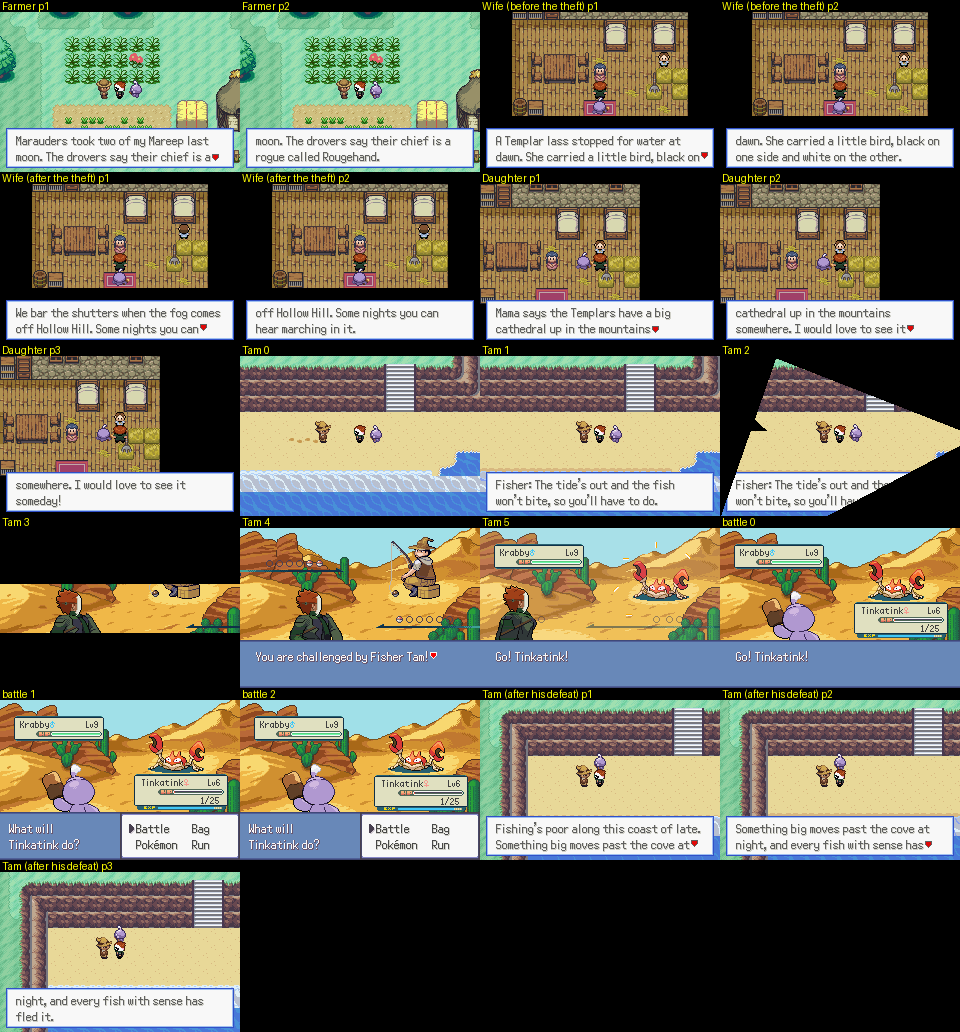
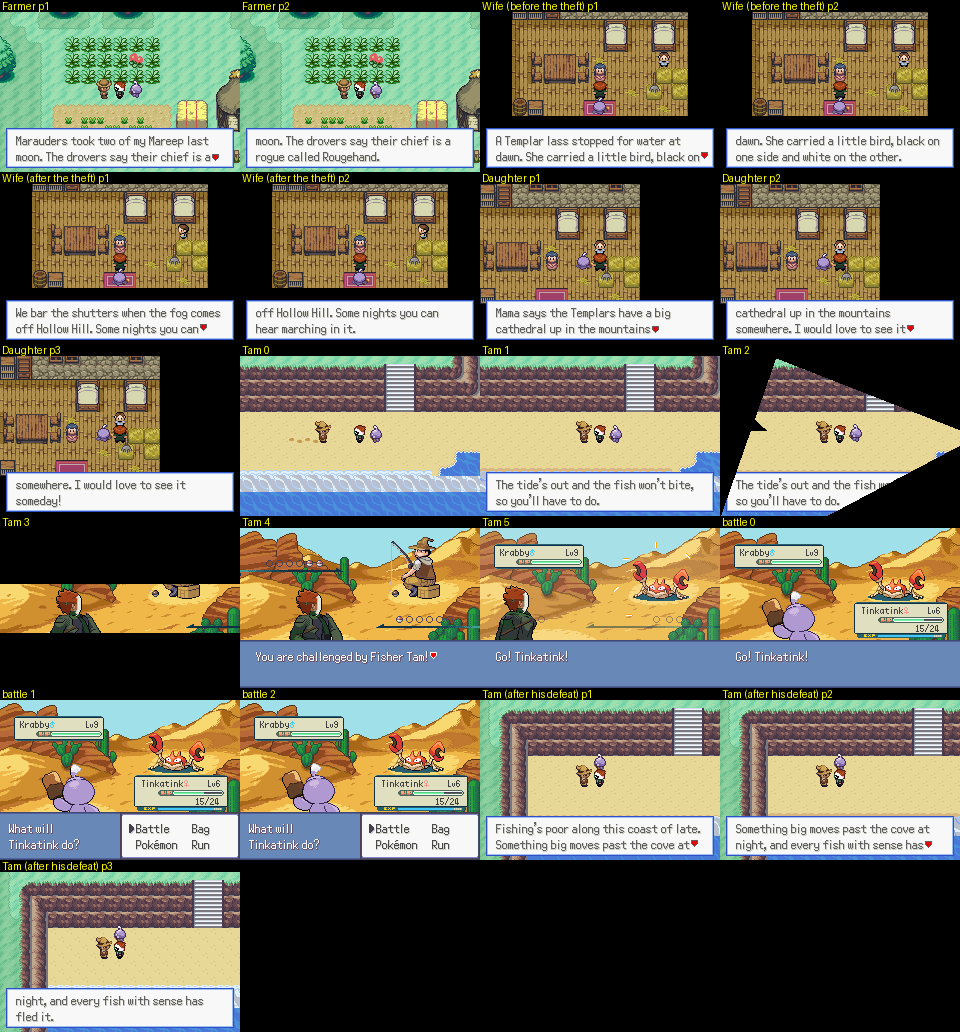
No trainer-class labels on trainer lines; trainer space raised to 1024
User 2026-11-27: role labels like "Fisher:" are unnecessary for ordinary
NPCs, so battle_setup.c no longer sets the trainer class as the speaker
and the Citadel Tavern barkeep loses his label. MAX_TRAINERS_COUNT goes
from 864 to 1024 (old saves need not load); every system flag moves up
0xA0. New tools/playtest/dr_consts.py reads flag and trainer numbers and
the SaveBlock1 offsets from the headers, so walk scripts never go stale.
Route 11 walk re-run on fresh states: Tam's intro has no label.

Claude-Session: https://claude.ai/code/session_01FHXnfqnedTHLf5QFbB3MCU

diff --git a/tools/playtest/route11_people_walk.py b/tools/playtest/route11_people_walk.py
@@ -4,20 +4,21 @@ import os, sys, struct
 os.environ.setdefault('ST', '/home/claude/scratch/r11/r11_entry.state')
 sys.path.insert(0, os.path.dirname(os.path.abspath(__file__)))
 from npc_dialogue_lib import *
+from dr_consts import const, saveblock1_offsets
+FLAGS_OFF = saveblock1_offsets()[0]
 IW = 0x019000
 def setflag(flag):
     st = bytearray(g.state()); sb1 = struct.unpack_from('<I', st, IW + (0x03006A08 - 0x03000000))[0]
-    # 5260 = offsetof(struct SaveBlock1, flags) (2026-11-27; older scripts used 5220)
-    off = EWB + (sb1 - 0x02000000) + 5260 + flag // 8; st[off] |= 1 << (flag % 8); g.restore(bytes(st))
+    off = EWB + (sb1 - 0x02000000) + FLAGS_OFF + flag // 8; st[off] |= 1 << (flag % 8); g.restore(bytes(st))
 for _ in range(6): g.tap('A'); g.run(30)       # the state is saved on the gate's message: finish it
-setflag(0x90F); g.run(5)                       # FLAG_DR_STATUE_AWAKENED (FLAG_UNUSED_0x909 = SYSTEM_FLAGS + 0xAF) opens the west gate
+setflag(const('FLAG_DR_STATUE_AWAKENED')); g.run(5)   # opens the west gate
 for _ in range(3): g.walk('LEFT', 1); g.run(5)
 g.run(30); print('on route', where(g))
 ok = {}
 ok['farmer'] = chase('Route11', 1, 'Farmer', near=(44, 12))   # objects spawn only once in view
 ok['door'] = go('Route11', (55, 15)); g.walk('UP', 1); g.run(120); print('in', where(g))
 ok['wife'] = go('Route11Farmhouse', (6, 7)); face('UP'); talk('Wife (before the theft)')
-setflag(0x912); g.run(5)
+setflag(const('FLAG_DR_R11_THEFT_SEEN')); g.run(5)
 face('UP'); talk('Wife (after the theft)')
 ok['daughter'] = chase('Route11Farmhouse', 2, 'Daughter', tries=12)   # she wanders a step either way
 ok['out'] = go('Route11Farmhouse', (6, 8)); g.walk('DOWN', 1); g.run(120); print('out', where(g))
@@ -31,7 +32,7 @@ for k in range(3): g.run(120); shots.append(('battle %d' % k, g.frame().copy()))
 # the after-battle line: reload, set Tam's trainer flag and speak to him
 g.restore(gzip.decompress(open(os.environ['ST'], 'rb').read())); g.run(20)
 for _ in range(6): g.tap('A'); g.run(30)
-setflag(0x90F); setflag(0x500 + 858); g.run(5)
+setflag(const('FLAG_DR_STATUE_AWAKENED')); setflag(const('TRAINER_FLAGS_START') + const('TRAINER_DR_R11_FISHER_TAM')); g.run(5)
 for _ in range(3): g.walk('LEFT', 1); g.run(5)
 go('Route11', (58, 28)); go('Route11', (53, 29)); face('LEFT'); talk('Tam (after his defeat)')
 print(ok)

diff --git a/tools/playtest/dr_consts.py b/tools/playtest/dr_consts.py
@@ -1,0 +1,31 @@
+"""Evaluate the game's C constants (flags, vars, trainer ids) from the headers, so harness scripts never carry stale
+numbers when flag space moves (MAX_TRAINERS_COUNT went 864 -> 1024 on 2026-11-27 and every system flag moved).
+Also SaveBlock1's flag and var offsets, measured with offsetof."""
+import subprocess, os, re, functools
+C = os.path.join(os.path.dirname(os.path.abspath(__file__)), '..', '..', 'codebase')
+CC1 = '/usr/lib/gcc/arm-none-eabi/13.2.1/cc1'
+
+def _cpp(src):
+    return subprocess.run(['arm-none-eabi-cpp', '-iquote', 'include', '-DMODERN=1', '-DTESTING=0', '-'], input=src,
+                          capture_output=True, text=True, cwd=C, check=True).stdout
+
+@functools.lru_cache(None)
+def const(name):
+    """The integer value of a #define (e.g. FLAG_DR_STATUE_AWAKENED, TRAINER_DR_R11_FISHER_TAM)."""
+    out = _cpp('#include "global.h"\n#include "constants/flags.h"\n#include "constants/vars.h"\n'
+               '#include "constants/opponents.h"\n@@@ ' + name + '\n')
+    expr = out.split('@@@', 1)[1].strip().splitlines()[0]
+    return int(eval(re.sub(r'\b(0x[0-9A-Fa-f]+|\d+)[uU]?\b', r'\1', expr)))
+
+@functools.lru_cache(None)
+def saveblock1_offsets():
+    src = '#include "global.h"\nconst int kF = offsetof(struct SaveBlock1, flags);\nconst int kV = offsetof(struct SaveBlock1, vars);\n'
+    asm = subprocess.run([CC1, '-quiet', '-mthumb', '-O2', '-mabi=apcs-gnu', '-march=armv4t', '-std=gnu17', '-o', '-'],
+                         input=_cpp(src), capture_output=True, text=True, cwd=C).stdout
+    f = int(re.search(r'kF:\s*\.word\s+(\d+)', asm).group(1)); v = int(re.search(r'kV:\s*\.word\s+(\d+)', asm).group(1))
+    return f, v
+
+if __name__ == '__main__':
+    import sys
+    for n in sys.argv[1:]: print(n, hex(const(n)))
+    print('SaveBlock1 flags/vars offsets', saveblock1_offsets())

diff --git a/codebase/src/battle_setup.c b/codebase/src/battle_setup.c
@@ -928,9 +928,10 @@ void SetMapVarsToTrainerA(void)
         gSpecialVar_LastTalked = TRAINER_BATTLE_PARAM.objEventLocalIdA;
         gSelectedObjectEvent = GetObjectEventIdByLocalIdAndMap(TRAINER_BATTLE_PARAM.objEventLocalIdA, gSaveBlock1Ptr->location.mapNum, gSaveBlock1Ptr->location.mapGroup);
     }
-    if (TRAINER_BATTLE_PARAM.objEventLocalIdA != 0) {
-        gSpeakerName = GetTrainerClassNameFromId(TRAINER_BATTLE_PARAM.opponentA);
-    }
+    // Dreamstone Ruination (user 2026-11-27): no trainer-class name over a trainer's lines ("Fisher:"); ordinary people
+    // speak without a label (bible §16.15 rule 5). Named characters set their own name in their scripts.
+    if (TRAINER_BATTLE_PARAM.objEventLocalIdA != 0)
+        gSpeakerName = NULL;
 }
 
 void SetMapVarsToTrainerB(void)
@@ -1388,14 +1389,11 @@ static const u8 *ReturnEmptyStringIfNull(const u8 *string)
 
 static const u8 *GetIntroSpeechOfApproachingTrainer(void)
 {
-    if (gApproachingTrainerId == 0) {
-        gSpeakerName = GetTrainerClassNameFromId(TRAINER_BATTLE_PARAM.opponentA);
+    gSpeakerName = NULL; // Dreamstone Ruination: no trainer-class label on an approaching trainer's lines (see above)
+    if (gApproachingTrainerId == 0)
         return ReturnEmptyStringIfNull(TRAINER_BATTLE_PARAM.introTextA);
-    }
-    else {
-        gSpeakerName = GetTrainerClassNameFromId(TRAINER_BATTLE_PARAM.opponentB);
+    else
         return ReturnEmptyStringIfNull(TRAINER_BATTLE_PARAM.introTextB);
-    }
 }
 
 const u8 *GetTrainerALoseText(void)

diff --git a/codebase/include/constants/opponents.h b/codebase/include/constants/opponents.h
@@ -954,12 +954,12 @@
 // --- Dreamstone Ruination: Route 11 ---
 #define TRAINER_DR_R11_FISHER_TAM           858 // the west beach
 
-// NOTE: Because each Trainer uses a flag to determine when they are defeated, there is only space for 9 additional trainers before trainer flag space overflows
+// NOTE: each Trainer uses a flag to mark it defeated; MAX_TRAINERS_COUNT sets how many flags are reserved (raised to 1024, 2026-11-27)
 //       More space can be made by shifting flags around in constants/flags.h or changing how trainer flags are handled
 //       MAX_TRAINERS_COUNT can be increased but will take up additional saveblock space
 
 #define TRAINERS_COUNT                      859
-#define MAX_TRAINERS_COUNT                  864
+#define MAX_TRAINERS_COUNT                  1024 // Dreamstone Ruination (user 2026-11-27): raised from 864; old saves need not load
 #define TRAINER_PARTNER(partner)           (MAX_TRAINERS_COUNT + partner)
 
 #endif  // GUARD_CONSTANTS_OPPONENTS_H

diff --git a/codebase/include/constants/flags.h b/codebase/include/constants/flags.h
@@ -1427,7 +1427,8 @@
 
 
 // Trainer Flags
-// Trainer flags occupy 0x500 - 0x85F, the last 9 of which are unused
+// Trainer flags occupy 0x500 - (0x500 + MAX_TRAINERS_COUNT - 1): 0x500 - 0x8FF since MAX_TRAINERS_COUNT went to 1024
+// (2026-11-27). The FLAG_UNUSED_0x9xx names below no longer match their numbers: the system flags all moved up 0xA0.
 // See constants/opponents.h. The values there + FLAG_TRAINER_FLAG_START are the flag IDs
 
 #define TRAINER_FLAGS_START                                         0x500

diff --git a/bible/20_chapter1_build.md b/bible/20_chapter1_build.md
@@ -288,7 +288,7 @@ Chapter 1 is the template: once its foundations (mechanics, maps, buildings, NPC
     - **Webs v2, mock (2026-11-25; `tools/art/hollowhill/hh_webs2.py`, installed over `hh_mock.py`; `assets/hollowhill_reference/webs_v2_before_after.png`, `hollow_hill_webs_v2(_fog).png`).** Studied as whole designs: the user's reference, **MonoMyth's Webbed Woods** (its maps 0x86DD40 and 0x86DD5C, where it came from): **the web drapes round the skirt of each crown** (a lace band following the crown's lower edge, strands hanging under it), **runs on from crown to crown in a thread at the band's foot**, and comes **in patches** (stretches of a treeline webbed, two and three rows deep where it is worst, round the exits; lone trees between); Crown 3.25's little cobwebs in its trees. **v2 replaces v1's garlands strung between the crowns:** the band on every crown of a patch, in Hollow Hill's blood red (patches: the north treeline both sides of the way north, deepest at the net; the north-east pocket; the south treeline round the clearing, two deep; a stretch of the south-east; the west woods' face in stretches; the trees closing the way east; about half the lone pines); threads between neighbouring webbed crowns; **webbed boulders** (2x2, the hill's own dark stone, lit from the upper left, their lower part netted in a mesh of web pegged to the ground; two designs, mirrored; placed in the open where they close no way: five found room). Kept: MonoMyth's big net across the way north, the round web in the dead tree. **Tiles:** v1's webs cost 103 tiles; v2 is drawn the same on every pine of a kind and mirror-symmetric (the pine's halves are mirror images), so its tiles repeat and flip: **Hollow Hill now needs 412 of its 443 own tiles (was 437)**, render check exact. Waiting on the user.
     - **Hollow Hill's ruin: placement and story decided (user 2026-11-25).** References studied as whole designs (`assets/hollowhill_reference/ruin_refs_v1.png`; every outdoor map of Crown and Odyssey rendered, MonoMyth and Lazarus sheeted; `tools/art/hollowhill/ruin/`): **Odyssey 3.43** (the same haunted-forest tileset as Hollow Hill: one ruined temple front closing a cliff-walled hollow, a broken flagstone path straight at it, one dark stele as the focus), **MonoMyth 868f44** (a precinct on one N-S axis, nature retaking the court, rubble at the margins, never on the path) and **868f4c** (the approach as the drama: a wide stair up the axis), **Lazarus fac8bc** (a symmetric hilltop shrine, the altar alone at the top), **Crown 3.25** (a tower ruin in webbed woods), **Odyssey 1.89** (ruin slabs scattered through the haunted forest as hints). Three placements offered (`ruin_plans_v1.png`): A on the knoll as it is (7x6, tileset full), C raise the knoll (redo ring 2), **B chosen (user): the summit as its own map.** **The sealed door at the knoll's foot opens (later in the game) on a tunnel climbing inside the knoll to a summit map** (~40x36 plateau, its own tileset), one axis south to north: arrival from the tunnel, a flagstone causeway, **a court with the stele where Phancero was erased and four empty plinths (the Treasures of Ruin)**, a wide stair, **the broken temple front, its door webbed shut: the guardian's lair**; a broken colonnade down both sides; room in the court for the late-game Red fight. Hollow Hill's own knoll keeps a hint (broken column stumps, slabs) from tiles it already has. **Story approved as proposed (user 2026-11-25).**
     - **Summit mock v1 (2026-11-25; `tools/art/hollowhill/ruin/compose_summit.py`, `summit_mock_v1*.png`):** Odyssey 3.43's temple front widened to 13 and burst open, cut into a crag on a terrace. **User: "a good starting design, but the temple doesn't look correct. Study the bastion part that leads to the open sky area in monomyth. The peak itself is mostly good but it needs a bit more work and refinement."** **Mock v2 (`summit_mock_v2*.png`; `bastion.py`):** studied MonoMyth's bastion castle (map section 48: its temple precinct 868f44 -> halls 868f48 -> **the ascent 868f4c** -> the bastion top 868f50, whose pillared gallery opens onto the moving sky): the ascent's whole design is **four flights up one axis, each narrower than the one below (23, 17, 11, 3), so the climb funnels the eye to the arcade at the top; a landing between flights; a pair of round columns and a pair of knight statues at every flight; massive stone tiers stepping up either side in lit courses and shaded faces; one side in shadow; moss in the joints.** The summit's north half is now that ascent (x 16-42, rows 0-27 of 868f4c, its walkable cells from its own collision), recoloured onto Hollow Hill's bone and sinister stone (lightness onto a 9-step ramp, its moss to dead weeds); **its arcade's middle arch burst open from inside**, a ragged hole broken out brick by brick up into the wall, the net of blood web across it, stones spilled and blood soaked into the landing: the guardian's lair (door (21, 5)). Audit fixes elsewhere: the court paved with the bastion's own floor and joined to it; the plateau's south half rounded (a superellipse, not a square); the woods below darkened and greyed for depth; fewer blood drips on the rim (they read as fence posts); webs on the colonnade as round webs, not zig-zag ropes; webbed rocks sparser; tall grass in organic patches; the sunk stair toned down. Map 43x49; walk check passes (arrival to the door, every flight, the court, the plinths, both colonnades). **Approved (user 2026-11-25: "looks really awesome").** Open, asked: whether the burst arch later opens onto a sky area beyond (as MonoMyth's bastion top does) or stays a closed lair; built as a closed lair until answered.
-    - **Route 11, stage 2: people and dialogue (2026-11-27; user: "lets go with that", the layered process: maps, then people and dialogue, trainers, side quests and rewards, then the story beats, polishing until the chapter is complete).** From docs/route11_hollowhill_draft.md §2 (approved): **the farmer** in his rows (`OBJ_EVENT_GFX_DR_FARMER`, Route 11 (45, 12), looking about; the Mareep theft and the name Rougehand); **the farmhouse wife** (Commoner Woman A, (6, 6) by the table; before the theft: the Templar lass with the black-and-white bird; after it, on `FLAG_DR_R11_THEFT_SEEN` (FLAG_UNUSED_0x912, set later by the Beat 5 scene): the shutters and the marching in the fog) and **daughter** (Kid A, (10, 5), wandering a step; the cathedral in the mountains); **Fisher Tam** on the west beach (`TRAINER_DR_R11_FISHER_TAM` 858, class Fisher, the cast's Fisher pic and walker; Krabby Lv.9 and Corphish Lv.10, IVs 10; (52, 29) facing east, sight 4; after: the thing that moves past the cove at night). Walked (`tools/playtest/route11_people_walk.py`, `assets/route11_reference/ingame_route11_people.png`): every line, both of the wife's, Tam spotting the player, his intro and the battle, his after-line. **Harness notes:** `SaveBlock1.flags` is at offset 5260 now (older walk scripts used 5220), and FLAG_UNUSED_0x909 is SYSTEM_FLAGS + 0xAF (the names do not match their numbers), so FLAG_DR_STATUE_AWAKENED is flag 0x90F. **Open:** trainer intros show the trainer class as the speaker ("Fisher:"), the engine's standing behaviour, against §16.15 rule 5 for ordinary NPCs (asked); trainer slots: 5 of 864 left (asked).
+    - **Route 11, stage 2: people and dialogue (2026-11-27; user: "lets go with that", the layered process: maps, then people and dialogue, trainers, side quests and rewards, then the story beats, polishing until the chapter is complete).** From docs/route11_hollowhill_draft.md §2 (approved): **the farmer** in his rows (`OBJ_EVENT_GFX_DR_FARMER`, Route 11 (45, 12), looking about; the Mareep theft and the name Rougehand); **the farmhouse wife** (Commoner Woman A, (6, 6) by the table; before the theft: the Templar lass with the black-and-white bird; after it, on `FLAG_DR_R11_THEFT_SEEN` (FLAG_UNUSED_0x912, set later by the Beat 5 scene): the shutters and the marching in the fog) and **daughter** (Kid A, (10, 5), wandering a step; the cathedral in the mountains); **Fisher Tam** on the west beach (`TRAINER_DR_R11_FISHER_TAM` 858, class Fisher, the cast's Fisher pic and walker; Krabby Lv.9 and Corphish Lv.10, IVs 10; (52, 29) facing east, sight 4; after: the thing that moves past the cove at night). Walked (`tools/playtest/route11_people_walk.py`, `assets/route11_reference/ingame_route11_people.png`): every line, both of the wife's, Tam spotting the player, his intro and the battle, his after-line. **Harness notes:** `SaveBlock1.flags` is at offset 5260 now (older walk scripts used 5220), and FLAG_UNUSED_0x909 is SYSTEM_FLAGS + 0xAF (the names do not match their numbers), so FLAG_DR_STATUE_AWAKENED is flag 0x90F. **Trainer lines carry no label (user 2026-11-27):** the engine's automatic trainer-class speaker ("Fisher:") is gone for every trainer (`src/battle_setup.c`); named characters set their own name in their scripts; the Citadel Tavern's barkeep lost his "Barkeep" label too. **Trainer space (user 2026-11-27: old saves don't matter):** `MAX_TRAINERS_COUNT` 864 -> 1024 (every system flag moved up 0xA0; the FLAG_UNUSED_0x9xx names no longer match their numbers; harness scripts take numbers from `tools/playtest/dr_consts.py`, which reads the headers). The Hoenn trainers are to be deleted (user): plan in hand.
     - **The summit built and walked (2026-11-25; `tools/art/hollowhill/ruin/build_summit.py`):** a new map **`MAP_HOLLOW_HILL_SUMMIT`** (`HollowHillSummit`, 43x49) on its own tilesets (`hollow_hill_summit(_tiles)`: 988 tiles, 383 metatiles, 7 palettes); Hollow Hill's music, fog (its thinned fog, picked by map section) and map section. Walkable = what the mock's walk check reaches (the court, the bastion's own walkable cells from MonoMyth's collision, the sunk stair), one level; the bastion's columns on the top layer from MonoMyth's own top layer (its triple-layer entries 8-11), the plinths', trees' upper parts and the webs too. **The lair's door (the burst arch, (21, 5)) is solid for now** (the guardian's quest opens it). **Warps:** the sunk stair's lower step (20-22, 42), `MB_DEEP_SOUTH_WARP`, down to Hollow Hill warp 0, **the sealed door's forecourt (29, 36)** (a landing on plain ground: no trigger); arriving on summit warp 1 the player faces north and steps up. **Nothing leads up yet** (the sealed door stays shut in Chapter 1; the tunnel is a later map). **Walked** (`tools/playtest/hollow_hill_summit_walk.py`, on a test ROM whose Route 11 farmhouse door was pointed at the summit for the test, then restored): up out of the sunk stair, the stele (it holds), round the plinths, both colonnades, up all four flights to the landing under the burst arch (the arch holds), the top landing, back down the sunk stair to Hollow Hill (29, 36). All ok (`assets/hollowhill_reference/ingame_summit_walk.png`); save states regenerated; every standing walk passes. ROM 96.23%.
     - **The way in and the stone's colour (user 2026-11-25, on the sunk stair in the game: "this doesn't look good"; "you're coming up through a door to get into those outdoor ruins"; "you're basically going through some liminal path that goes briefly inside of Hollow Hill to get to the summit ... we don't see the liminal path, just when you emerge up into the ruin"; and "recolor the ruin tileset to something more like a pale brown or something more interesting than the white-ish color"):** **no tunnel map**: Hollow Hill's sealed door (once it opens, later) warps straight to the summit. **The sunk stair is gone; two squat gatehouses** in the bastion's stone stand at the court's north corners against the bastion's foot (5x4 each: a shaded flat roof behind a row of merlons, some broken; a front of the bastion's coursed blocks, lit west edge, shaded east; an arched door at the foot, doors facing south, open ground before them). **The player emerges from the west gatehouse's door** ((11, 32), `MB_NON_ANIMATED_DOOR`, summit warp 0 <-> Hollow Hill warp 0 at the sealed door's forecourt (29, 36)), stepping out south into the court; **the east gatehouse's door is choked** with fallen stones and web. The colonnade moved out to x 9 and 33 (clear of the doors), rows 35-41; the court runs on to row 42; the map 43x51. **The stone is now a pale brown** (`bastion.RAMPS['pale_brown']`: warm light browns, the shadows going to Hollow Hill's violet-grey), used by the bastion, the paving, the gatehouses, the columns and the plinths; compared with a sandstone and the old ashen white (`assets/hollowhill_reference/summit_stone_colours.png`). Rebuilt (999 tiles, 399 metatiles) and walked on a test ROM (out of the gatehouse door, the stele, the plinths, both colonnades, the causeway's end, the choked east door holds, all four flights, the arch holds, back in at the gatehouse door to Hollow Hill (29, 36)): all ok (`ingame_summit_walk_v2.png`); save states regenerated; every standing walk passes. **Approved (user 2026-11-25: "look awesome").**
 - **Mirroh (user 2026-11-20/21; zone plan v2, `tools/art/mirroh/layout_sketch.py`, `assets/mirroh_reference/`).** Where Crown's medieval architecture really starts. **A mix of a Crown village and MonoMyth's Fort Elderflower** (user): a **walled city climbing the slope** of the massif in three terraces (Elderflower's crenellated terrace walls that jog with the slope, stone stairs staggered so the way winds up), Crown's timber and thatch cottages with fenced gardens below. **Light snow in the lower town, deeper uphill. Gothic, gloomy and wintry:** roofs recoloured to dark slate, iron lanterns, Crown's dragon statues darkened to gargoyles, banners in House Langerin's colours, a graveyard. **Ghost Grey's Opal Village** (user: loves its reflecting ice; study its landscape and indoor/outdoor tiles): sheets of **reflecting ice** sunk in brick rims (one in the square, one in the lower town), **dark icy streets with sparkles**, snowbanks held by brick retaining walls; its houses and museum halls for the interiors (greyscale: to be coloured). Zones: outside the **south gate** Hollow Hill's bone woods carry on (the seam), thinning to snowy pines; **lower town** (cottages, gardens, ice sheet); **middle terrace**, the square (the **Tavern**, like Pelluca's, **recoloured to the dark slate look**, user; a market hall, stalls, the ice sheet); **upper terrace** (deep snow): a gothic chapel and its graveyard (the seed of DM's Mirroh Base Camp graveyard), **House Langerin's town house** (user: yes). **Two ways out north (user):** a **north-west path** further north out of town, and a **separate north-east path to the Necropolis** (its own map uphill). **Gatehouses (user 2026-11-21):** Mirroh is guarded: people may not come and go as they please. **Two walk-through gatehouse buildings with guards** (enter one side, pass the guards inside, leave by the other; interior maps): the **south gatehouse** between Hollow Hill and the city proper, and the **north-west gatehouse** on the route toward the mountain, the Templar HQ and beyond. The **north-east path to the Necropolis is open** (no gate; the Necropolis keeps its own entrance). **Plan approved by the user ("basically perfect").** **Gates, decided (user 2026-11-21):** the **south and north-west gatehouses are roofed gatehouse buildings** in the style of Ghost Grey's and Crown's walk-through gates (slate roof behind the crenels, a stone front with banners, a portcullis door between lanterns, round towers either side; Crown's castle gate restoned in Elderflower's stone). The south one's far door, on the city side, is **a short flight of steps up from the gatehouse** (the city is uphill; user: "yes"). Their **hallway maps** follow North Edelweiss's gate hallway (MonoMyth): a dark doorway at the top, a crimson runner, guard desks facing each other, benches and plants, the mat at the foot, in Mirroh's cold stone (`tools/art/mirroh/gate_hall.py`). **The north-east way to the Necropolis is a standalone skull gate** (user's idea: Elderflower's skull keep door, "rebuilt as a standalone gate with a new top"): the skull arch under a crenellated walk between two round towers capped with the gothic spires of Crown's cathedral; no guards; you walk through the dark arch onto the Necropolis map. **Revised (user 2026-11-21):** both gatehouses take **the towered style** (option B: three-wide round towers a row taller than the gate, capped with the Necropolis gate's spires; no steps and no mat (a mat against the roof read wrong): the south one's far door is where the city's cobbled lane runs into its back), and **between the towers the real roof of Crown's cathedral** (its metal-sheet roof as it runs back between the cathedral's spired towers, cut out and widened at mid-slope), **in copper**, over Crown's gate core (pillar, lantern, portcullis, lantern, pillar, two banners); 14 wide (user: no roof at all looked strange; a drawn roof did not look like a natural part of the gate). **No way round (user 2026-11-21: players must not sneak past Mirroh):** the three columns either side of the walls, from the top of the map to the city wall's foot, are closed by the massif's pinewood and rock (big and small pines, snow-buried rocks; every cell solid. user 2026-11-22 review: the one-row rock ridges read as slabs of cliff stacked in the trees and were taken out: all pinewood), and the **city's north wall** runs along the top from wall to wall, broken only by the north-west gatehouse and the Necropolis gate. The mock checks it: from Hollow Hill nothing is reachable past the south gatehouse, and from inside the city the top edge is reachable only through the gates. **Route 13 forks (user 2026-11-22):** north from Mirroh's north-west gatehouse, Route 13 **splits partway**: one branch climbs to **Mt. Mirroh**, a side branch leads to **Templar Headquarters** (off the main path; in Chapter 1 the player can visit or skip it). The illustrated empire map draws it as one road Mirroh -> Templar HQ -> Mt. Mirroh (Route 15 branching east above HQ); the fork supersedes that for the game. Zone plan v1: `tools/art/route13/layout_sketch.py`, `assets/route13_reference/route13_sketch_v1.png` (40x64; the gatehouse's north face at the foot; a switchback round a ledge band; a frozen tarn; the fork plateau with a Templar waystone and signpost; the Templars' cobbled pilgrim road NE to HQ, a rough trail up rock steps NW to Mt. Mirroh; the massif's spur between them). **Zone plan v3 (user 2026-11-22: v1 too short; study MonoMyth's northern routes; a tad longer before the split):** 40x124, after MonoMyth's Routes 17/20/22/23 (terraced climbs of stepped rock walls with stone stairs, real pine forests with clearings, its blue ice grass, boulders, rock arches, frozen puddles; Route 23 shares Fort Elderflower's tilesets): out of Mirroh's wall into a forest with a clearing (a hidden glade beside it), terraces I (four tiers, a stone stair), a high meadow with the tarn, a rocky defile with rock arches and a frozen stream under a log bridge, terraces II (switchback stairs), the fork; the HQ branch through a pinewood, the Mt. Mirroh branch up six steep terraces. `assets/route13_reference/route13_sketch_v3.png`. **Route 13 built and walked (user 2026-11-22, mock v2 approved):** `Route13`, 40x128 (122 rows of route, then 6 of Upper Mirroh as built, as scenery: **the north-west gatehouse built into the city wall**, the wall-walk either side, its spired towers and copper roof in the wall line, and the way in is the road's last two cells on the snow at its roof's peak (x 19-20, row 122): you walk south off them into the gatehouse. user 2026-11-22: the wall had run in front of the gatehouse, as if it stood behind it; then a doorway drawn into the roof's peak left the player standing on the roof. **MonoMyth's convention for a building entered from its north (measured from its ROM, every outdoor warp into the top of an interior):** its gatehouses on Route 14, Route 28, New Old Bay City and South Edelweiss, and Old Pueblo's house, draw no door at all; the warp is the route's own ground, its last row before the building's top edge (`assets/route13_reference/ingame_north_door_vs_monomyth.png`)). The ground round its spires and above its roof's slopes is Route 13's snow, both sides alike (user 2026-11-22: right of the peak it had been Upper Mirroh's dusted slate paving): found exactly by drawing the gatehouse with Mirroh's own `gatehouse()` on snow and on magenta and taking every pixel that differs as ground (`route13_v2.gate_ground`; `assets/route13_reference/ingame_arrival.png`)). Composed by `tools/art/route13/route13_v2.py`, built by `build_route13.py` (its own tileset pair; border: Elderflower's small pines, so woods show past the edges). From the foot: the passage in Mirroh's north wall (south arrow warps down into the north-west hall, whose top doorway now leads up here: the road is open); a forest with a clearing, the cobbled pilgrim road and a hidden glade; **terraces I and the defile with terraces II lifted whole from MonoMyth's Route 22** (its rows 57-74 and 15-46, with its own collision, side-stairs and rock stairs: MonoMyth's level design as well as its art, credit and permission before release); the high meadow (the tarn, ice grass, boulders, rock arches); **the tarn's outflow** (user 2026-11-22 review: the stream had run flat across the defile's three ledge levels and through two cliff faces; moved): out of the tarn's east shore, two wide, stepping down a row every few columns east across the flat meadow and out through the treeline (a boulder on each bank closes the bank to the map's edge); still water froze hard (the tarn is walkable ice) but the outflow runs under thin, darker ice you cannot stand on, so the trail crosses on the log deck (x 19-21, rows 73-74; the logs over the ice); the defile is MonoMyth's ledges again, no water; the fork: **the Templars' cobbles start at the top of the central stairway** and run north-east through a pinewood to the Templar HQ exit (x 32-34), while **the wild trail to Mt. Mirroh breaks off unpaved** into **a switchback climb**: six contour walls that jog with MonoMyth's corner pieces, unbroken from trees to trees, their stairs alternating sides (x 11, 4, 11, 4, 10, then 8) to the Mt. Mirroh exit (x 7-10). Both top exits closed until those maps exist. Tall grass: MonoMyth's ice grass (behaviour 0x5a there, our MB_TALL_GRASS). **Review pass (user 2026-11-22: "another set of passes on everything... inconsistencies and terrain that doesn't make sense"):** Route 13: the stream moved (above); the pale icy-track squares on the terraces and by the waystone (hard-edged, read as blank tiles) removed; the paste seams mended (a hedge of small pines where MonoMyth's forest bottoms had no tops at row 81; a half boulder and the feet of two walls that ran up off the paste at row 34 cleared); the columns either side of the pasted map stacked small pines (their rock-and-snow fill had snow cells that were invisible walls). MonoMyth's pines standing before its ledges (its own pine-over-cliff metatiles 0x110, 0x138-0x141: a tree in front of a cliff face hides part of it) are right and kept. Mirroh: the flank ridges out (above); the lower town's pond laid out by hand (five across, corners cut, two cells of snow bank all round; at 5x3 its drifts had left a square of ice). Interiors: the Cottage's and the Specialty Shop's exit mats moved from the black under the floor onto its bottom row, as in the other rooms (arrival (5, 6) and (6, 8)); the shop's counters (above). Walked in the game after: Route 13 end to end (`assets/route13_reference/ingame_review_fixes.png`), Mirroh's chain, all seven interiors. Walked in the game: the gate, the clearing, the glade, both terraces, the tarn, the bridge, the fork, up the switchbacks to the Mt. Mirroh exit, along the road to the HQ exit, and back down into Mirroh (`assets/route13_reference/ingame_route13_walk.png`). **Stage 2 (user 2026-11-22): at least two enemy trainers on the switchback ascent to Mt. Mirroh** (the ledges walked end to end make natural sight lines). **Mirroh's interiors (step 4; user choices 2026-11-21/22, mock v3 approved), built and walked:** each its own map and tileset pair, lifted by `tools/art/mirroh/interiors.py` (picture, collision and exits from the source) and built by `build_interiors.py`. **Tavern** (`MirrohTavern`, the town's Pokémon Center): Pelluca's Seaside Tavern room recoloured colder, its fire left warm; the core staff where Pelluca's stand (the shared healer, Sage and Caretaker; a barkeep with Mirroh's first-pass stock, `[OPEN]`); the bar is a counter (talk across it); `HEAL_LOCATION_MIRROH` (41) outside its door, Mirroh's respawn and fly point. **No guest room** (user: Taverns do not need one). **Chapel** (`MirrohChapel`): Crown's church nave (map 6.2) in Mirroh's cold stone, the runner copper, the pew cushions dark copper; the gold altar and Crown's cobwebs kept. **House Langerin's reception hall** (`MirrohLangerinHall`): MonoMyth's Elderflower long hall (0x86B260) in dark oak, the long table, the Tavern's lit hearth at its head between two copper skull banners (Kimaris's). **The specialty shop** (`MirrohSpecialtyShop`, §16.5 item 4): Crown's stocked room (map 7.5), its rug copper; **its two keepers' counters** (user 2026-11-22 review: it had none): runs of the Mirroh Tavern's bar in the shop's own desk wood, in place of its two writing desks: the dealer's at row 4 (x 1-3, he stands behind at row 3), the Egg salesman's at row 3 (x 8-10, behind at row 2), both MB_COUNTER, the space behind each closed (a bust beside the dealer's); the keepers themselves come in stage 2. **Three homes, each with a bed** (user 2026-11-22: homes people live in need beds; Crown's inn bed, map 7.8): the **townhouse** (`MirrohTownhouse`, the wealthier home: MonoMyth's study 0x86B2D0 in dark walnut, a lit hearth in place of the sofa, a copper rug, the bed on the left wall), **Crown's cottage** (`MirrohCottage`, the herbalist room map 18.1, cauldron kept, no candelabra, the bed on the left wall), the **snowy house** (`MirrohSnowyHouse`, MonoMyth's Elderflower room 0x86B1F0 in Pelluca's warm oak, the bed on its right wall). The homes are warm oak and walnut against the cold outside; the chapel and Langerin's hall carry the cold stone and the copper. Doors: non-animated doors on the buildings (warps appended after each map's own, so other maps' warp ids stay put); you leave by the door you came in at. Walked in the game: in and out of all seven, the innkeeper across the bar (`assets/mirroh_reference/ingame_interiors_walk.png`, `interiors_built.png`). Pelluca reviewed for beds: every home a door reaches has one. **The north-west gatehouse's door (user 2026-11-21: it looked raised, as if you could not go north through it):** its base course ran on under the portcullis and the door was set on it; now, as at the south gatehouse, the square's paving runs in under the opening (x 12-15) and the door is the doorway's last row ((13-14, 9)); its lamps flank the approach at x 11 and 17 (one had stood in front of the door) and the small pine there moved aside. Walked in the game: in, up the hall to the closed road, and back out. **The lower town, rearranged (user 2026-11-21: the houses were squeezed against the south wall, their doors a thin strip from it, while the ground under the terrace stood empty; buildings must be easy to get into):** all four houses stand under the terrace with their doors on one row, and the street runs along in front of them: **Crown's long townhouse at the top centre, on the south gate's axis** (through the gate, its door is straight ahead across the street), Crown's small cottage and shop flanking it inside the two stairs, Elderflower's snowy house in the far west, the frozen pond in the far east; both stairs come straight down to the street, the lane from the gate joins it under the townhouse door; no fences before any door; along the south wall only a few pines and a bench. Walked in the game to every door and both stairs (`assets/mirroh_reference/ingame_lower_doors.png`). **The apron before the south gate is closed too (user 2026-11-21: you could walk off both edges there):** the same three-column pinewood strips carry on from the wall's foot down to Hollow Hill's wood (`mirroh_v3.flanks_apron`), the snow drifting deep against them and thinning toward the lane; and Mirroh Gate's border (what the camera shows past the map's edges) is Hollow Hill's bone wood, in step with the wood in the map, not snow (`assets/mirroh_reference/ingame_gate_apron_edges.png`). **Snow and stone (user 2026-11-21: more fluid and natural, not big blocks of snow):** on the paved terraces the snow lies in ragged drifts of every size (smooth noise at two scales, a little deeper toward the walls), swept clear along the ways people walk (stairs, doors, gates), and the paving round the drifts is **dusted** (a few pieces of paving with snow specks, thicker next to the drifts, thinning out), so the drifts fade into the stone; deeper on the sacred terrace. The ice sits in rounded, uneven pools, the snow drifting straight onto it; the lower town's cobbled lanes wander and vary in width. **The fortress stone (user 2026-11-21):** every wall, tower, parapet, stair and both gatehouses (and the Necropolis gate) in **one copper-shaded stone**, a cold grey warmed toward copper, to go with the copper roofs (`cstone`, mapped by lightness from Elderflower's stone; the snow on the crenels and the dark slate paving kept); the gatehouse roof runs in behind its towers (no gap at its sides). **Copper is Mirroh's main colour and House Langerin's crest's** (user): used as the contrast to the dark slate and the snow wherever it makes sense: the gatehouse roofs, the banners (Crown's purple ones in copper), the chapel's roof (Crown's verdigris roof in copper, a little green left in its seams), House Langerin's town house roof, the hallway runners and mats (copper rather than red: red is generic). **Mock v3 (2026-11-21, `tools/art/mirroh/mirroh_v3.py`):** the city as Elderflower-style terraces drawn from a level map (each terrace narrower than the one below, its own crenellated front wall with round-tower ends, parapets down its sides, its paving shaded under them), snow lying on the paving in drifts, the reflecting ice set in snowy yards (the snow drifting onto the ice, no rim), cobbled lanes in the lower town; every borrowed building cut out of its source cleanly (only the source's true ground removed).
